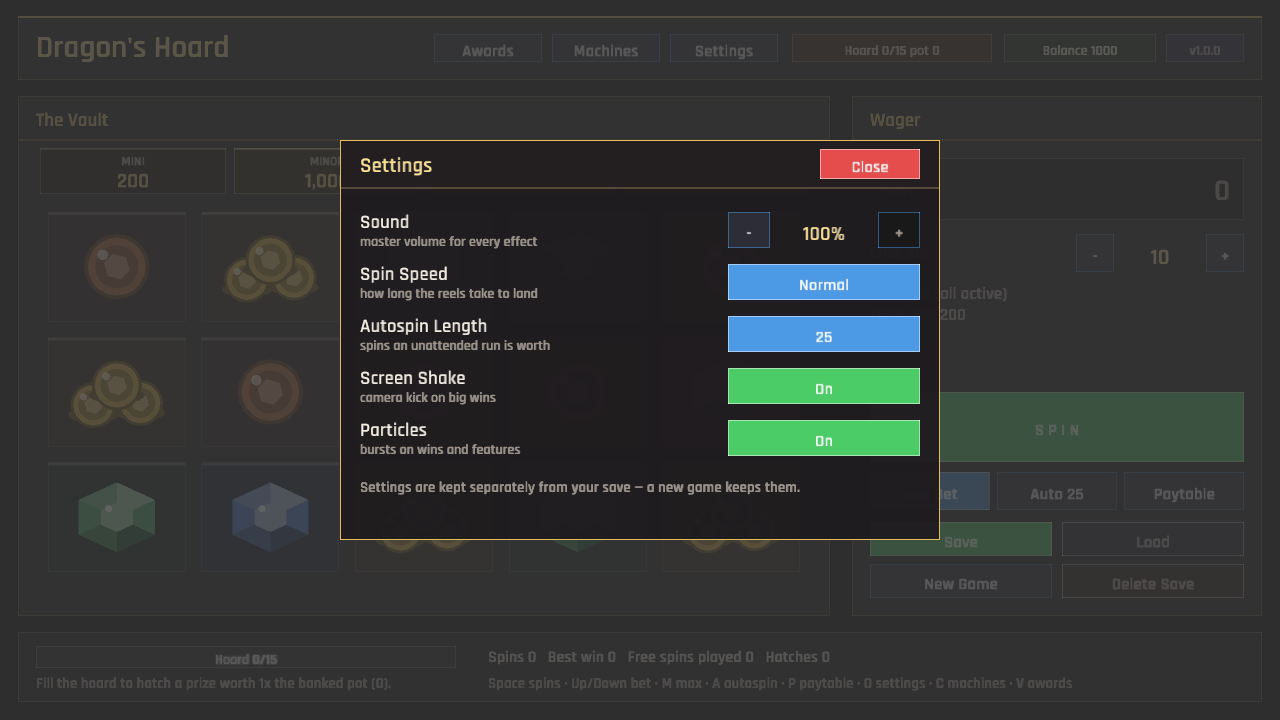
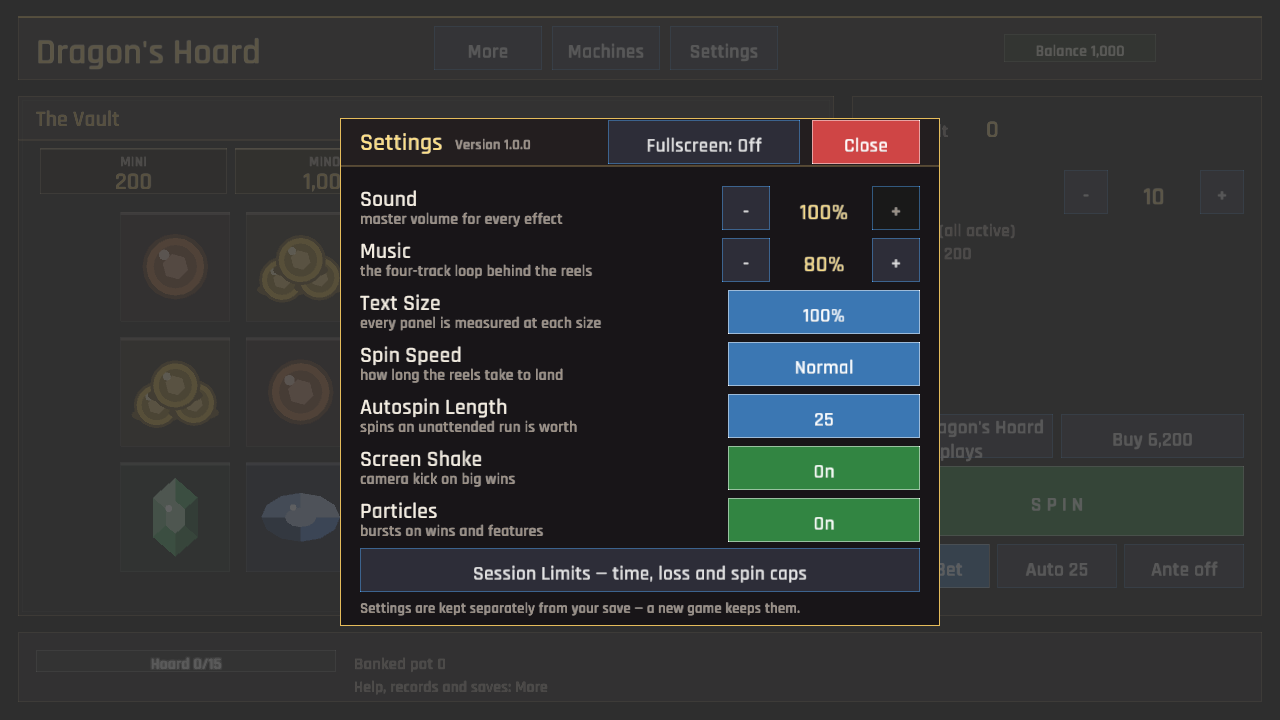
The Vault fills the screen on demand (fullscreen settings)
Settings now shows the live fullscreen state beside its title. The choice is saved with shared preferences and applied at once. Native sessions restore the saved state; Web sessions stay windowed until a player clicks, and capture or drift runs cannot change the window.

Formatting, strict Clippy, the Web/WASM build, the 800-line scan, 1280x720 and 960x640 Settings captures, and a live fullscreen on/off interaction passed. Tests and publishing were not run.

diff --git a/src/game.rs b/src/game.rs
@@ -39,6 +39,7 @@ pub struct Game {
     ui_time: f32,
     show_paytable: bool,
     show_settings: bool,
+    fullscreen: bool,
     show_machines: bool,
     show_achievements: bool,
     show_featurebuy: bool,
@@ -93,10 +94,9 @@ pub struct Game {
 
 impl Game {
     pub async fn new() -> Self {
-        crate::state::persist::set_read_only(
-            capture::capture_requested("DRAGONS_HOARD")
-                || crate::game::drift::DriftConfig::from_env().is_some(),
-        );
+        let harness_mode = capture::capture_requested("DRAGONS_HOARD")
+            || crate::game::drift::DriftConfig::from_env().is_some();
+        crate::state::persist::set_read_only(harness_mode);
         let boot = BootResources::load().await;
         let BootResources {
             data,
@@ -111,6 +111,17 @@ impl Game {
             ledger,
             proofs,
         } = boot;
+
+        // Browsers require a user gesture before entering fullscreen, so the
+        // runtime starts windowed while retaining the saved preference.
+        #[cfg(target_arch = "wasm32")]
+        let fullscreen = false;
+        #[cfg(not(target_arch = "wasm32"))]
+        let fullscreen = session.preferences.shared.fullscreen && !harness_mode;
+        #[cfg(not(target_arch = "wasm32"))]
+        if fullscreen {
+            set_fullscreen(true);
+        }
 
         // Text size (§5.38) and the cabinet's palette (§5.43) are applied once
         // at boot and again whenever their settings change.
@@ -133,6 +144,7 @@ impl Game {
             ui_time: 0.0,
             show_paytable: false,
             show_settings: false,
+            fullscreen,
             show_machines: false,
             show_achievements: false,
             show_featurebuy: false,

diff --git a/src/ui.rs b/src/ui.rs
@@ -120,6 +120,7 @@ pub enum UiAction {
     ToggleAutospin,
     TogglePaytable,
     ToggleSettings,
+    ToggleFullscreen,
     ToggleMachines,
     ToggleAchievements,
     /// Open or close the Feature Buy menu (§5.13).
@@ -209,6 +210,7 @@ impl UiAction {
             UiAction::ToggleAutospin => "toggle_autospin",
             UiAction::TogglePaytable => "toggle_paytable",
             UiAction::ToggleSettings => "toggle_settings",
+            UiAction::ToggleFullscreen => "toggle_fullscreen",
             UiAction::ToggleMachines => "toggle_machines",
             UiAction::ToggleAchievements => "toggle_achievements",
             UiAction::ToggleFeatureBuy => "toggle_feature_buy",
@@ -266,6 +268,7 @@ pub struct UiContext<'a> {
     pub save_exists: bool,
     pub show_paytable: bool,
     pub show_settings: bool,
+    pub fullscreen: bool,
     pub show_machines: bool,
     pub show_achievements: bool,
     pub show_featurebuy: bool,
@@ -365,6 +368,7 @@ fn draw_panels(ctx: &UiContext<'_>, pointer: Pointer, actions: &mut Vec<UiAction
         settings::draw(
             &ctx.data.config,
             &ctx.session.preferences,
+            ctx.fullscreen,
             pointer,
             actions,
             nav,

diff --git a/src/game/outcomes.rs b/src/game/outcomes.rs
@@ -17,6 +17,7 @@ use crate::state::gamble::GambleBlocked;
 use crate::state::ruin::Lifeline;
 use crate::state::{GameSession, SpinBlocked};
 use crate::ui::{self, UiAction};
+use macroquad::prelude::set_fullscreen;
 use macroquad_toolkit::rng::random_u64;
 
 impl Game {
@@ -46,6 +47,19 @@ impl Game {
             }
             ActionOutcome::SettingsToggled => {
                 self.show_settings = !self.show_settings;
+                self.sound.play(Sfx::Click);
+            }
+            ActionOutcome::FullscreenToggled => {
+                let next_fullscreen = !self.fullscreen;
+                self.session.preferences.shared.fullscreen = next_fullscreen;
+                self.fullscreen = next_fullscreen;
+                if crate::game::drift::DriftConfig::from_env().is_none() {
+                    set_fullscreen(next_fullscreen);
+                }
+                let result = self.session.preferences.save(&self.data.config);
+                if let Err(error) = result {
+                    self.report_persistence_error("fullscreen preference save", error);
+                }
                 self.sound.play(Sfx::Click);
             }
             ActionOutcome::MachinesToggled => {

diff --git a/src/ui/settings.rs b/src/ui/settings.rs
@@ -21,6 +21,7 @@ const ROW_HEIGHT: f32 = 52.0;
 pub fn draw(
     config: &GameConfig,
     prefs: &Preferences,
+    fullscreen: bool,
     pointer: Pointer,
     actions: &mut Vec<UiAction>,
     nav: &mut Nav,
@@ -51,12 +52,30 @@ pub fn draw(
     );
     draw_text_centered_in_box_ex(
         &format!("Version {}", config.version),
-        panel.right() - 218.0,
+        panel.x + 108.0,
         panel.y + 8.0,
         90.0,
         32.0,
         TextStyle::new(13.0, palette::text_dim()),
     );
+    if virtual_button(
+        Rect::new(panel.right() - 332.0, panel.y + 2.0, 192.0, 44.0),
+        if fullscreen {
+            "Fullscreen: On"
+        } else {
+            "Fullscreen: Off"
+        },
+        true,
+        if fullscreen {
+            ButtonTone::Positive
+        } else {
+            ButtonTone::Secondary
+        },
+        pointer,
+        nav,
+    ) {
+        actions.push(UiAction::ToggleFullscreen);
+    }
     if virtual_button(
         crate::ui::close_button(panel),
         "Close",

diff --git a/src/actions.rs b/src/actions.rs
@@ -31,6 +31,7 @@ pub enum ActionOutcome {
     BetChanged(i64),
     PaytableToggled,
     SettingsToggled,
+    FullscreenToggled,
     MachinesToggled,
     AchievementsToggled,
     FeatureBuyToggled,
@@ -95,6 +96,7 @@ pub fn apply(
     match action {
         UiAction::TogglePaytable
         | UiAction::ToggleSettings
+        | UiAction::ToggleFullscreen
         | UiAction::ToggleMachines
         | UiAction::ToggleAchievements
         | UiAction::ToggleFeatureBuy
@@ -147,6 +149,7 @@ fn apply_navigation(show_paytable: &mut bool, action: UiAction) -> ActionOutcome
             ActionOutcome::PaytableToggled
         }
         UiAction::ToggleSettings => ActionOutcome::SettingsToggled,
+        UiAction::ToggleFullscreen => ActionOutcome::FullscreenToggled,
         UiAction::ToggleMachines => ActionOutcome::MachinesToggled,
         UiAction::ToggleAchievements => ActionOutcome::AchievementsToggled,
         UiAction::ToggleFeatureBuy => ActionOutcome::FeatureBuyToggled,

diff --git a/src/game/present.rs b/src/game/present.rs
@@ -34,6 +34,7 @@ impl Game {
                 save_exists: self.save_exists,
                 show_paytable: self.show_paytable,
                 show_settings: self.show_settings,
+                fullscreen: self.fullscreen,
                 show_machines: self.show_machines,
                 show_achievements: self.show_achievements,
                 show_featurebuy: self.show_featurebuy,

diff --git a/src/game/drift.rs b/src/game/drift.rs
@@ -287,6 +287,7 @@ const SETTINGS: &[UiAction] = &[
     UiAction::CycleRealityCheck,
     UiAction::ToggleShake,
     UiAction::ToggleParticles,
+    UiAction::ToggleFullscreen,
 ];
 
 /// The presses that throw the game away.

diff --git a/TODO.md b/TODO.md
@@ -350,4 +350,4 @@ ownership; do not spend a separate pass polishing borders before these changes.
 
 ## Settings and display
 
-- [ ] Add a Fullscreen toggle to Settings and persist/apply the player's display preference.
+- [x] Add a Fullscreen toggle to Settings and persist/apply the player's display preference.
